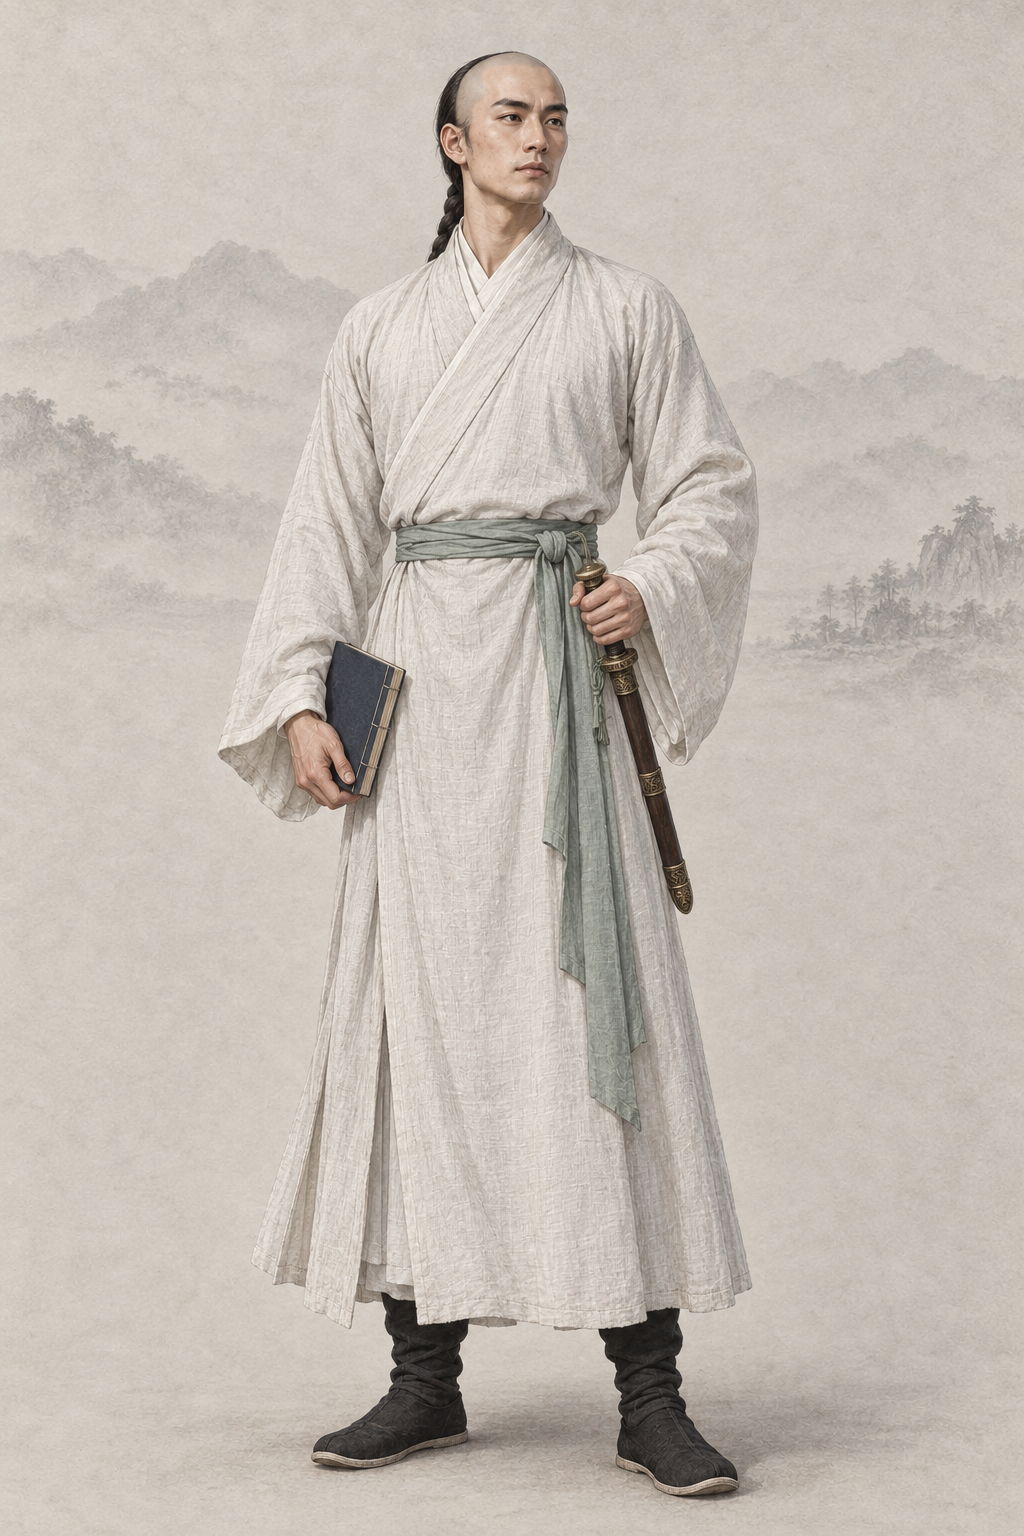
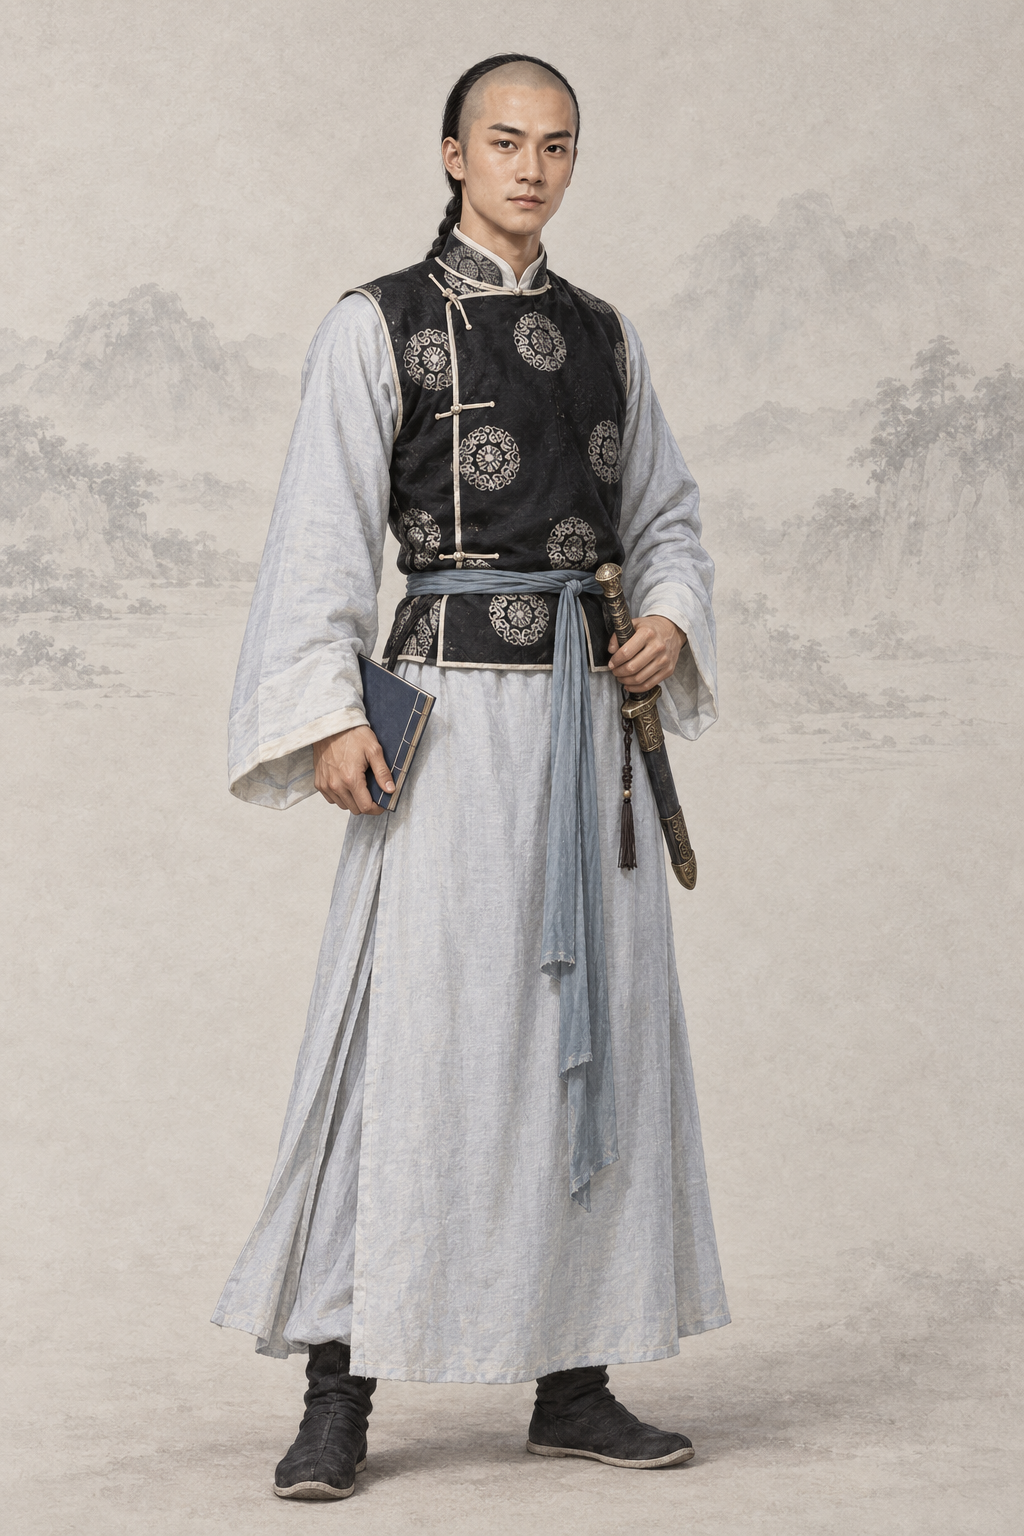
assets(character): por_npc_chenjialuo__ch12_youth_late_base 陈家洛（codex · AR-32 经典剧照重出）
1976 年 TVB《书剑恩仇录》剧照 1 张 + 基线；提示词写回「## Gemini 提示词」，上一版留作历史，frontmatter 加 classic_ref。

diff --git a/assets/default/prompts/characters/ch12-shujian/npc_chenjialuo.md b/assets/default/prompts/characters/ch12-shujian/npc_chenjialuo.md
@@ -13,9 +13,16 @@ references:
     use: candidate，当前工作副本 manifest 尚未批准；仅拟参考纸底、光线、笔触与设色，不沿用面容、体型、服饰或道具
 status: new
 redo_reason: "书剑男主尚无立绘；按原著「轻袍缓带、面如冠玉、贵介公子」补出，作为福康安（相貌极像）的身份参考。"
-reference_upload:
-- assets/default/baseline/character/male/ref_npc_linghuchong__ch05_base01.png
 codex_prompt_rev: 2026-10-02
+classic_ref:
+  version: "1976 年 TVB《书剑恩仇录》"
+  stills:
+  - ".agents/coord/imagegen-reference/identity-20261001/shujian/classic1976-20261002-prep_audit/chenjialuo-1976-zhengshaoqiu-sohu.jpg"
+  note: "剧照缩到长边 1024 的 JPEG 上传，放在两张同性别基线之前（AR-32）；chenjialuo-1976-zhengshaoqiu-sohu.jpg 裁切框 (0.2, 0.0, 1.0, 1.0)"
+reference_upload:
+- .agents/coord/imagegen-reference/identity-20261001/shujian/classic1976-20261002-prep_audit/chenjialuo-1976-zhengshaoqiu-sohu.jpg
+- assets/default/baseline/character/male/ref_npc_linghuchong__ch05_base01.png
+- assets/default/baseline/character/male/ref_npc_xiaofeng__ch01_base01.png
 ---
 
 <!-- full-coverage-import:current-policy:v1 -->
@@ -28,6 +35,26 @@ codex_prompt_rev: 2026-10-02
 # 陈家洛 · 《书剑恩仇录》（ch12）
 
 ## Gemini 提示词
+
+> 2026-10-02 AR-32 经典剧照重出（6 号出图员，codex exec · image_gen 出图）：上传该角色经典影视版剧照 1 张（1976 年 TVB《书剑恩仇录》：chenjialuo-1976-zhengshaoqiu-sohu.jpg）在前、两张同性别基线在后。剧照只借鉴发型、服饰、配色、标志道具、气质与面部特征，重新绘制成项目画风，不照搬照片的构图、光影和姿势；人物一律成年；清代男子按清制剃额留辫。提示词里不写演员名。上一版提示词保留在下一节作历史。
+
+```text
+生成一张 2:3 竖幅全身人物立绘：单人、单一视角、完整全身——头顶、双手、双脚和手中器物的两端都在画面内，四周留出自然空白；人物站姿自然，身体基本朝向正面，头部端正（不歪头、不仰不俯），镜头平视。
+【参考图】随提示词上传 3 张参考图。第 1 张参考图是该角色经典影视造型的剧照：借鉴其发型、服饰、配色、标志道具、气质和面部特征，让人一眼认出是这个角色；但必须重新绘制成项目画风，不要照片质感，不要照搬剧照的构图、光影、背景和姿势，也不要做成照片修图。剧照与下文文字不一致的地方（年龄、所处阶段、帽饰与衣装细节、手中器物），以下文文字为准；画中人一律是成年人。最后两张是本项目画风基线：画风、用色、光线、质感和暖浅灰纸底加淡水墨背景以它们为准。
+【画风】写实手绘古风人物插画，与本项目写实武侠角色立绘同一画风，像功力深厚的画师用细腻笔触画出的真实人物。手绘插画质感，不是 CG 渲染：不要过度光滑的皮肤、完美对称的五官、塑料高光、过度锐利的发丝；保留自然的笔触和细微不完美。皮肤有真实质感——细小毛孔、细纹、晒痕和自然的左右不对称，不磨皮、不油亮；头发是一缕缕自然的发丝和少量碎发；布料看得出经纬纹理、厚薄和自然垂坠的褶皱，带穿用过的轻微旧化，但完整不破烂；整体设色低饱和、沉稳；柔和的自然光从左上方照来，明暗过渡自然，不打舞台光、轮廓光或美颜柔光。不是照片，不是三维渲染，不是动漫或游戏 CG，也不是油画（没有厚涂笔触和画布纹理）。
+【背景】不透明的暖浅灰色纸底，只在远处有极淡的水墨远山和薄雾，大面积留白；人物与背景明暗分明、轮廓边缘干净完整（后续要自动抠图），水墨和纸纹只在背景里，不侵入人物和衣服；脚下只有很淡的一点接触阴影。
+【人物】陈家洛，金庸《书剑恩仇录》的男主角，红花会总舵主，海宁陈家的贵公子，文武双全，在回疆悟道之后、进京之前。
+【年龄与体态】二十四五岁的成年男子，身材修长挺拔，肩背舒展，约七个半头身。
+【经典造型】要一眼认出是红花会总舵主陈家洛——月白长衫外罩黑缎团花坎肩、轻袍缓带、手握书卷、腰悬短剑，面如冠玉、凤眼含愁，儒雅俊秀的贵公子兼一帮之主；英俊出众，一眼看去就是风度翩翩、年轻有书卷气的美男子，剃净的前额干净利落，不显老、不显僧相。
+【面容】脸以剧照为底子——保留剧照里这个角色的脸型、眉眼、鼻唇的比例关系和神气，画成成年人；面如冠玉：白净细致的皮肤（仍有真实的毛孔和淡淡血色，不是瓷娃娃）；长方脸，下颌线干净；剑眉，眉峰清楚；一双细长的凤眼，眼神温润沉静，眼底藏着心事和犹豫；鼻梁高挺笔直；嘴唇偏薄，线条分明；不留胡须。儒雅的书卷气里带着一帮之主的威仪。
+【发式】清代男子发式：前额与头顶前半部剃净，后脑长辫垂到背后，辫梢系素色丝绳。
+【服饰】月白色细布长衫，衣袍宽松（轻袍缓带），清代样式的圆领大襟（右衽，衣襟从领口斜向右腋下扣合）；外罩一件黑缎对襟坎肩，坎肩上缀着几团银灰色团花纹；领口露出白色中衣，腰间松松系一条浅青色丝绦；黑色布靴。整洁考究，像个贵介公子，没有绣金。
+【道具与姿态】左腰佩一柄短剑（霍青桐所赠，古朴的铜饰剑鞘，长度约一尺半），剑完全在鞘内；左手轻按剑柄，右手握一卷合起的线装书（封面无字）。微侧站立，身姿挺拔从容，目光平视远方。
+【不要】画面里不要任何文字、题款、印章、签名、水印、台标、边框、分格或多视图；不要第二个人；不要幼态（童颜、娃娃脸、婴儿肥、儿童或少年身材、大头小身）；不要塑料感皮肤、磨皮美颜、网红脸（尖下巴大眼高鼻的模板脸）、过度对称、浓妆、偶像式打光、蜡像感；不要照片质感、三维渲染或动漫大眼；不要歪头、斜镜头；不要多指、缺指（设定的伤残除外）、手与器物粘连或悬空；汉式交领必须右衽（穿着者的左襟压在右襟上），不要左衽（设定为少数民族服制的除外），不要水平镜像；不要现代物品、日式服饰或日本刀、发光特效、法阵或能量光。不要照片或照片修图的质感，不要照搬剧照的构图、光影、背景和姿势，不要剧照里的字幕、台标和水印。不要络腮胡或粗犷相貌；不要帝王龙袍、道冠；不要笛子、盾牌、折扇；不要少年稚气的脸。清代男子穿圆领大襟，不要汉式交领长衫，不要明代发髻或网巾；不要照搬剧照里的站姿和白底。
+【画风基线】随提示词上传的参考图里，最后两张是本项目的立绘画风基线：只参考它们的画风、用色、光线、质感和暖浅灰纸底加淡水墨的背景处理，整体画风必须与它们一致——精细写实的数字手绘插画，不是油画，不要厚涂笔触和画布纹理。基线图只取画风，不取长相：不要照搬基线图里人物的长相、年龄、发型、服饰和姿势。
+```
+
+## 上一版 Gemini 提示词（2026-10-02 文字版；AR-32 经典剧照重出前，历史，不再用于出图）
 
 > 2026-10-02 Codex 人物线 2 号（AR-31）：在审核组稿上补一行「经典形象」（借鉴公认经典造型的发式、装束、配色、标志道具与气质，只写文字，不写演员名、不上传剧照），并补去 AI 化要求。本轮出图用下面第一个代码块；审核组原稿保留在其后的「审核组原稿」小节作历史。
 
